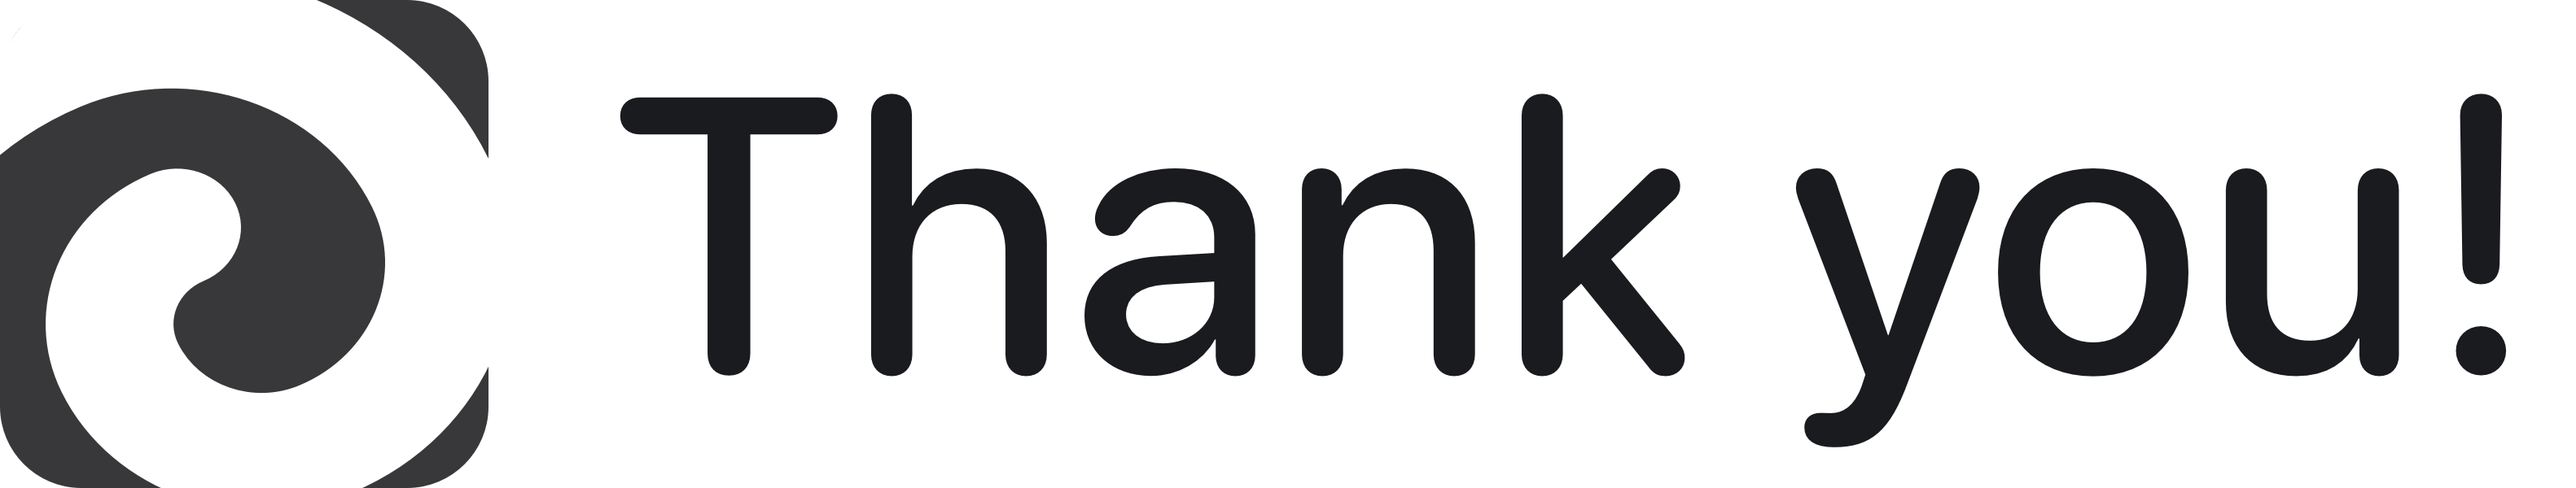
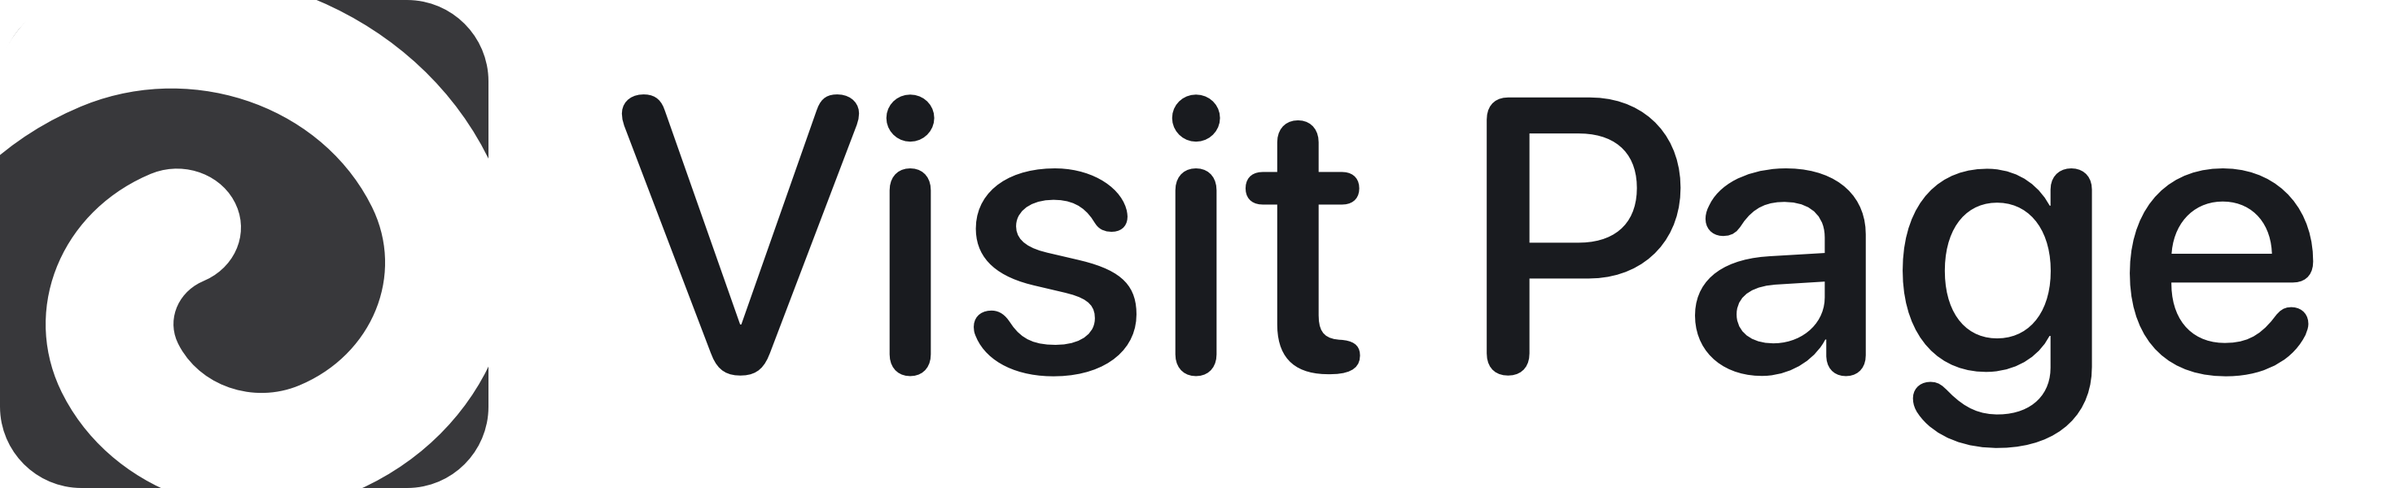
added image link

diff --git a/index.html b/index.html
@@ -25,8 +25,12 @@
 <h2 id="So where are the projects?">So where are the projects?</h2>
 <p>My <b>Academic Journal</b> is at ➡ <a href="https://hectorcarrion.com/">https://hectorcarrion.com/</a></p>
 <br>
+<p>
+	<a href="https://hectorcarrion.com/">
+		<img src='Artboard.png'>
+	</a>
+</p>
 <h2 id="Thank you!">Thank you!</h2>
-<p><img src='Artboard.png'></p>
 <br>
 
         </div>
